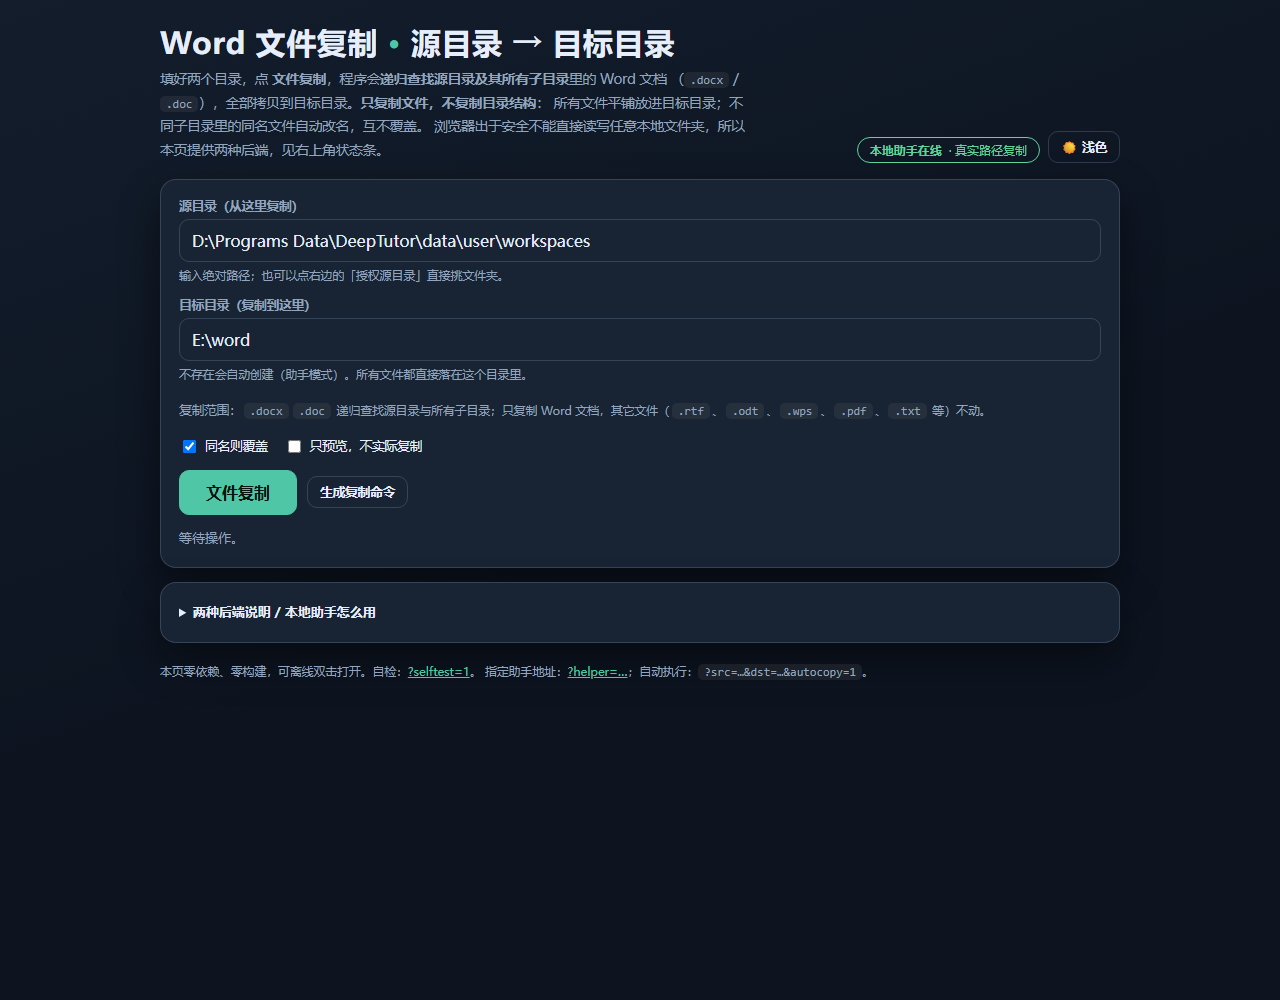
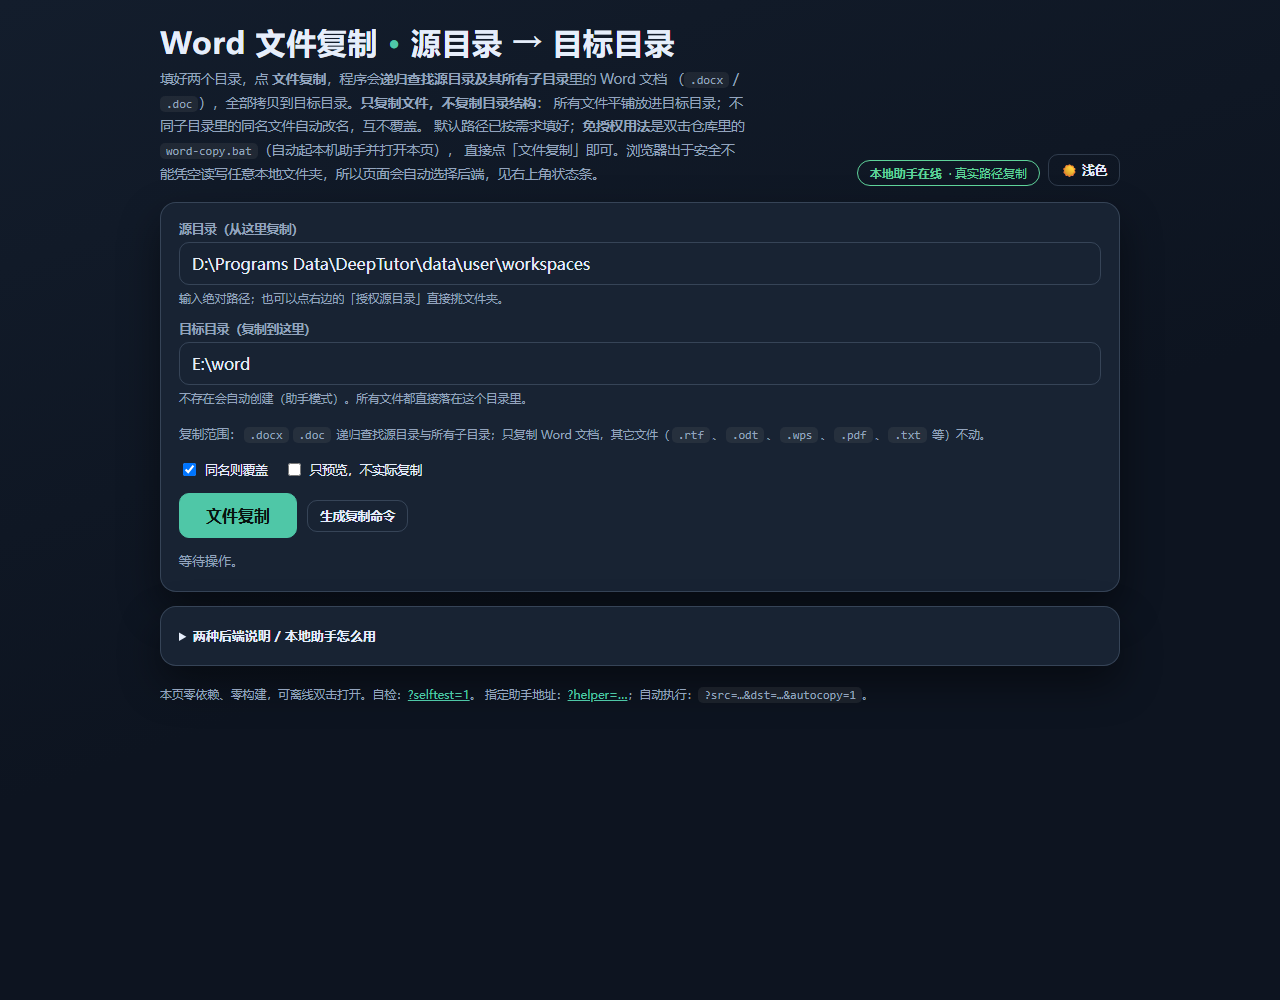
feat(word-copy): 默认目录免授权直接用 —— 双击 word-copy.bat 起助手
反馈里那张截图是「未检测到本地助手，已改用浏览器授权模式：请分别授权源目录和目标目录」。
按「默认文件不用授权」的要求改成：

- 新增 word-copy.bat 免授权启动器：双击即自动起本机助手并打开页面，
  两个默认目录已填好，直接点「文件复制」，不需要授权任何文件夹
  （纯 ASCII，避开 cmd 默认代码页把批处理截断的问题；助手已在跑时不重复启动；
  先等助手绑好端口再叫浏览器，避免页面抢跑探测失败）
- 助手离线时不再只丢一句「请先授权」：页面给出三种免授权办法
  （双击 word-copy.bat 的实际路径、一条启动命令可复制、重新探测助手按钮），
  探测自动重试几次；助手在线时授权按钮直接隐藏
- 页内自检 54 项（新增免授权提示控件、bat 路径推导、顶部免授权说明）
- tools\word-copy-check.ps1 44 项（新增 bat 静态校验与免授权主路径、
  助手离线提示两组无头 Edge 断言）
- tools\word-copy-shots.ps1 本机 git 不可用时保留已提交基线，不重抓
- 新增截图：word-copy-after-no-auth-defaults.png、word-copy-after-helper-offline-hint.png

diff --git a/word-copy.html b/word-copy.html
@@ -70,6 +70,14 @@ details{margin-top:12px;font-size:12.8px;color:var(--muted);line-height:1.75}
 summary{cursor:pointer;color:var(--ink);font-weight:600;font-size:13px}
 code{background:rgba(127,127,127,.14);border-radius:5px;padding:1px 6px;font-family:ui-monospace,Consolas,monospace;font-size:12px}
 .hint{font-size:11.8px;color:var(--muted);margin-top:5px;line-height:1.6}
+.helper-hint{margin-top:12px;border:1px solid var(--warn);border-radius:12px;padding:12px 14px;
+  background:rgba(178,106,0,.06);font-size:12.8px;color:var(--ink);line-height:1.8}
+[data-theme="dark"] .helper-hint{background:rgba(224,178,104,.08)}
+.helper-hint .ht{font-weight:700;color:var(--warn)}
+.helper-hint ol{margin:6px 0 0;padding-left:22px}
+.helper-hint li{margin:4px 0}
+.cmdline{display:flex;gap:8px;align-items:center;flex-wrap:wrap;margin-top:4px}
+.cmdline code{flex:1 1 340px;min-width:0;word-break:break-all}
 footer{margin-top:18px;font-size:11.8px;color:var(--muted);line-height:1.8}
 a{color:var(--accent)}
 #selftest{margin-top:16px;font-size:12.5px;line-height:1.8}
@@ -89,7 +97,8 @@ a{color:var(--accent)}
       <p class="sub">填好两个目录，点 <b>文件复制</b>，程序会<b>递归查找源目录及其所有子目录</b>里的 Word 文档
         （<code>.docx</code> / <code>.doc</code>），全部拷贝到目标目录。<b>只复制文件，不复制目录结构</b>：
         所有文件平铺放进目标目录；不同子目录里的同名文件自动改名，互不覆盖。
-        浏览器出于安全不能直接读写任意本地文件夹，所以本页提供两种后端，见右上角状态条。</p>
+        默认路径已按需求填好；<b>免授权用法</b>是双击仓库里的 <code>word-copy.bat</code>（自动起本机助手并打开本页），
+        直接点「文件复制」即可。浏览器出于安全不能凭空读写任意本地文件夹，所以页面会自动选择后端，见右上角状态条。</p>
     </div>
     <div class="row" style="gap:8px">
       <span class="pill" id="backend"><b>检测中…</b></span>
@@ -130,6 +139,18 @@ a{color:var(--accent)}
 
     <div class="status" id="status">等待操作。</div>
 
+    <div class="helper-hint" id="helperHint" hidden>
+      <div class="ht" id="hintTitle">未检测到本地助手：</div>
+      <ol>
+        <li>双击 <code id="hintBat">word-copy.bat</code>（会自动起助手并打开本页，<b>不需要授权任何文件夹</b>）；</li>
+        <li>或在 PowerShell 里跑一行：
+          <div class="cmdline"><code id="hintCmd">powershell -ExecutionPolicy Bypass -File tools\word-copy-server.ps1</code>
+            <button class="ghost" id="hintCopy">复制</button></div></li>
+        <li>助手起来后点 <button class="ghost" id="hintRetry">重新探测助手</button>，或直接刷新本页。</li>
+      </ol>
+      <div class="hint">助手只监听 127.0.0.1，只做「递归列出 Word 文件」和「平铺复制到目标目录」两件事，不删除任何东西，关掉窗口即停止。</div>
+    </div>
+
     <div id="result"></div>
     <div id="cmd" hidden>
       <label style="margin-top:14px">可直接粘贴到 PowerShell 的复制命令</label>
@@ -140,9 +161,11 @@ a{color:var(--accent)}
 
   <details class="card" style="margin-top:14px">
     <summary>两种后端说明 / 本地助手怎么用</summary>
-    <p><b>① 本地助手（推荐，用真实文件夹路径）</b>：在本仓库目录打开 PowerShell 运行
+    <p><b>① 本地助手（推荐，免授权，用真实文件夹路径）</b>：双击仓库里的 <code>word-copy.bat</code> 最省事 ——
+      它会自动启动助手并打开本页；也可以手动运行
       <code>tools\word-copy-server.ps1</code>，然后访问 <code>http://127.0.0.1:8765/</code>（或直接双击本页，
-      页面会自动探测本机助手）。助手只监听 <code>127.0.0.1</code>，只做「递归列出源目录及子目录里的 Word 文件」和
+      页面会自动探测本机助手）。两种打开方式都不用授权任何文件夹：两个默认目录已经填好，直接点「文件复制」。
+      助手只监听 <code>127.0.0.1</code>，只做「递归列出源目录及子目录里的 Word 文件」和
       「把文件平铺复制到目标目录」两件事：不建子目录、不删除任何东西，关掉窗口即停止。</p>
     <p><b>② 浏览器授权（无需助手）</b>：点「授权源目录 / 授权目标目录」，在系统选择器里授权两个文件夹，
       页面用 File System Access API 逐份复制。限制：必须由你亲手授权，输入框里手打的路径无法被网页读取。</p>
@@ -369,10 +392,35 @@ function detectBackend(tries){
     if (!on && tries > 1) return setTimeout(function(){ detectBackend(tries - 1); }, 400);
     state.mode = on ? 'helper' : (window.showDirectoryPicker ? 'browser' : 'none');
     setBackend();
-    if (state.mode === 'browser') setStatus('未检测到本地助手，已改用浏览器授权模式：请分别授权源目录和目标目录，再点「文件复制」。');
-    else if (state.mode === 'none') setStatus('未检测到本地助手，当前浏览器也不支持目录授权（或以 file:// 打开）。可以点「生成复制命令」，在 PowerShell 里执行同样的操作。');
+    if (state.mode === 'browser') showHelperHint('未检测到本地助手，才让你去授权文件夹。其实不用授权：');
+    else if (state.mode === 'none') showHelperHint('未检测到本地助手，当前浏览器也不支持目录授权。不用授权的用法：');
+    else hideHelperHint();
     if (Q.get('autocopy')) run();
   });
+}
+
+/* 助手不在线时给出「免授权」的启动办法：双击 word-copy.bat，或粘一条命令 */
+function batPath(){
+  /* 从当前页面地址推出发起的仓库目录，拼出 word-copy.bat 的绝对路径 */
+  try {
+    var p = decodeURIComponent(location.pathname);
+    if (/^\/[A-Za-z]:\//.test(p)) p = p.slice(1);          /* file:///D:/... 去掉开头斜杠 */
+    var dir = p.replace(/[\\/][^\\/]*$/, '');               /* 去掉 word-copy.html */
+    var win = /^[A-Za-z]:/.test(dir) || /^\\\\/.test(dir.replace(/\//g, '\\'));
+    return win ? dir.replace(/\//g, '\\') + '\\word-copy.bat' : dir.replace(/\\/g, '/') + '/word-copy.bat';
+  } catch (e) { return 'word-copy.bat'; }
+}
+function showHelperHint(title){
+  var box = $('helperHint');
+  $('hintTitle').textContent = title;
+  $('hintBat').textContent = batPath();
+  box.hidden = false;
+}
+function hideHelperHint(){ $('helperHint').hidden = true; }
+function retryDetect(){
+  setStatus('正在重新探测本机助手…');
+  state.mode = 'detect'; setBackend();
+  detectBackend(5);
 }
 
 /* ---------- 浏览器授权模式（递归查找 Word 文件，平铺复制） ---------- */
@@ -470,10 +518,14 @@ function run(){
     setStatus('助手模式需要绝对路径，例如 D:\\资料\\合同 或 /home/me/docs。', true); return;
   }
   if (state.mode === 'browser' && (!state.srcHandle || !state.dstHandle)){
-    setStatus('浏览器授权模式需要先分别授权源目录和目标目录。', true); return;
+    setStatus('输入框里的路径浏览器读不到，所以这一版才要授权。想直接用默认路径、不授权，就启动本机助手（见下方提示）。', true);
+    showHelperHint('要用默认路径直接复制、跳过授权，请先启动本机助手：');
+    return;
   }
   if (state.mode === 'none' || state.mode === 'detect'){
-    setStatus('当前环境无法直接复制文件。请运行 tools\\word-copy-server.ps1，或点「生成复制命令」。', true); return;
+    setStatus('本机助手没在运行，浏览器也读不到手打的路径。启动助手即可免授权用默认路径复制：', true);
+    showHelperHint('未检测到本地助手，用下面任一方式启动后即可免授权复制：');
+    return;
   }
   state.busy = true; $('run').disabled = true;
   setStatus(o.preview ? '正在预览…' : '正在复制…');
@@ -510,6 +562,14 @@ function pickDir(which){
 }
 $('pickSrc').addEventListener('click', function(){ pickDir('src'); });
 $('pickDst').addEventListener('click', function(){ pickDir('dst'); });
+$('hintRetry').addEventListener('click', retryDetect);
+$('hintCopy').addEventListener('click', function(){
+  var txt = 'powershell -ExecutionPolicy Bypass -File "' + batPath().replace(/word-copy\.bat$/, 'tools\\word-copy-server.ps1') + '"';
+  if (navigator.clipboard && navigator.clipboard.writeText){
+    navigator.clipboard.writeText(txt).then(function(){ setStatus('助手启动命令已复制到剪贴板，粘到 PowerShell 回车即可。'); },
+      function(){ $('hintCmd').textContent = txt; setStatus('自动复制被拒绝，请手动选中上面那行命令。'); });
+  } else { $('hintCmd').textContent = txt; setStatus('请手动选中上面那行命令复制。'); }
+});
 $('cmdBtn').addEventListener('click', function(){
   var o = currentOpts();
   var v = validate(o.src, o.dst, EXTS);
@@ -617,6 +677,10 @@ function selftest(){
   T('Unix 命令递归 find + cp 平铺', /find .* -type f/.test(buildCommand('/a', '/b', { exts: EXTS, unix: true })) &&
     buildCommand('/a', '/b', { exts: EXTS, unix: true }).indexOf('-maxdepth') < 0);
   T('界面控件齐备', ['src', 'dst', 'run', 'overwrite', 'preview', 'result', 'status', 'exts'].every(function(id){ return !!$(id); }));
+  T('免授权提示控件齐备', ['helperHint', 'hintTitle', 'hintBat', 'hintCmd', 'hintCopy', 'hintRetry'].every(function(id){ return !!$(id); }));
+  T('bat 路径可推导', typeof batPath === 'function' && /word-copy\.bat$/.test(batPath()));
+  T('提示默认隐藏', $('helperHint').hidden === true);
+  T('助手探测会重试', detectBackend.length === 1);
   T('按钮文案是文件复制', $('run').textContent.trim() === '文件复制');
   T('两个目录输入框存在', $('src').type === 'text' && $('dst').type === 'text');
   T('源目录默认值正确', $('src').value === DEFAULT_SRC && DEFAULT_SRC === 'D:\\Programs Data\\DeepTutor\\data\\user\\workspaces');
@@ -624,6 +688,7 @@ function selftest(){
   T('默认值都是绝对路径', isAbsolute(DEFAULT_SRC) && isAbsolute(DEFAULT_DST));
   T('已无「含子目录」勾选框', !$('recursive'));
   T('范围文字写明递归与不复制目录', $('exts').textContent.indexOf('子目录') >= 0);
+  T('顶部说明给出免授权用法', document.querySelector('.sub').textContent.indexOf('word-copy.bat') >= 0);
   T('预览用词与实复制不同', PREVIEW_LABEL.copy === '待复制' && ACTION_LABEL.copy === '已复制' &&
     PREVIEW_LABEL.overwrite === '待覆盖' && PREVIEW_LABEL['skip-exist'].indexOf('将') === 0);
   T('助手地址去掉尾部斜杠', HELPER.slice(-1) !== '/');

diff --git a/README.md b/README.md
@@ -6,11 +6,18 @@
 
 ## 怎么用
 
+**免授权用法**：双击仓库里的 `word-copy.bat` —— 它自动启动本机助手并打开页面，
+两个默认目录已经填好，直接点 **文件复制** 就行，不需要授权任何文件夹。
+
 | 步骤 | 说明 |
 | --- | --- |
-| 1 | 打开页面。两个框已按需求填好默认值：源目录 `D:\Programs Data\DeepTutor\data\user\workspaces`、目标目录 `E:\word` |
+| 1 | 双击 `word-copy.bat`（或先跑助手、再打开 `word-copy.html`）。页面打开时两个框已按需求填好默认值：源目录 `D:\Programs Data\DeepTutor\data\user\workspaces`、目标目录 `E:\word` |
 | 2 | 点 **文件复制** |
 | 3 | 看结果表：每个文件从哪儿来、在目标目录里叫什么、是复制 / 覆盖 / 跳过 / 失败 |
+
+助手没在跑的时候，页面不会只丢一句「请先授权文件夹」，而是直接给出三种免授权启动办法：
+双击 `word-copy.bat`（提示里带出它的实际路径）、粘一条启动助手的 PowerShell 命令、
+点「重新探测助手」。探测还会自动重试几次，避免助手刚起来时抢跑。
 
 - **只复制 Word 文档**：`.rtf`、`.odt`、`.wps`、`.pdf`、`.txt`、图片等一律不动；Word 打开时产生的
   `~$` 临时锁文件和隐藏文件也自动排除。
@@ -25,7 +32,7 @@
 
 | 后端 | 怎么开 | 能力 |
 | --- | --- | --- |
-| ① 本地助手（推荐） | `powershell -ExecutionPolicy Bypass -File tools\word-copy-server.ps1` 后访问 `http://127.0.0.1:8765/` | 认输入框里的真实路径，递归 + 平铺复制；只监听 `127.0.0.1`，只做「列 Word 文件」和「复制文件」两件事，不删除任何东西，关窗口即停 |
+| ① 本地助手（推荐，**免授权**） | 双击 `word-copy.bat`（自动起助手 + 打开页面），或 `powershell -ExecutionPolicy Bypass -File tools\word-copy-server.ps1` 后访问 `http://127.0.0.1:8765/` | 认输入框里的真实路径，递归 + 平铺复制；只监听 `127.0.0.1`，只做「列 Word 文件」和「复制文件」两件事，不删除任何东西，关窗口即停 |
 | ② 浏览器授权 | 点「授权源目录 / 授权目标目录」亲手挑两个文件夹（Chrome / Edge 的 File System Access API） | 无需助手，但必须由用户授权，手打路径读不到 |
 | ③ 生成复制命令 | 点「生成复制命令」，粘到 PowerShell 执行 | 兜底：同样递归、同样只拷 Word、同样平铺；区别是不同子目录里的同名文件会互相覆盖（一条命令没法改名），要保留两份请用助手或授权模式 |
 
@@ -46,19 +53,22 @@
 | `?overwrite=0` | 取消「同名则覆盖」 |
 | `?cmd=1` | 打开时直接展开生成的复制命令 |
 | `?theme=dark` | 深色启动 |
-| `?selftest=1` | 页底列出 49 项自检结果 |
+| `?selftest=1` | 页底列出 54 项自检结果 |
 
 页内暴露 `window.wordcopy`（`state` / `core` / `setPaths()` / `run()` / `ping()` / `selftest()`）供检查。
 
 ## 验证
 
-- `powershell -ExecutionPolicy Bypass -File tools\word-copy-check.ps1`：**32 项断言全部通过**
+- `powershell -ExecutionPolicy Bypass -File tools\word-copy-check.ps1`：**44 项断言全部通过**
   （递归只取 `.docx`/`.doc`、排除 `~$` 与隐藏文件、平铺且目标不产生子目录、同名不同目录自动改名不覆盖、
   重复拷贝跳过、内容有差才覆盖、不勾选覆盖时一律跳过、预览不落盘不建目录、目标缺失时自动创建、
   四类入参校验报错，以及助手 HTTP 的 `/api/status` / `/api/copy` / 400 错误通道；
-  最后用无头 Edge 跑页内自检与「浏览器 → 助手 → 磁盘」全链路，确认状态报完成且磁盘上确有 4 个平铺文件）。
-- `word-copy.html?selftest=1`：**49 项页内断言全部通过**（含内核 14 个函数齐备、递归清单与平铺改名规则、
-  默认目录值、预览用词与实复制用词区分、控件齐备与文案）。
+  外加 `word-copy.bat` 免授权启动器的静态校验（纯 ASCII、带 `-Port`、助手已在跑时不重复启动、先绑端口再开浏览器）；
+  最后用无头 Edge 跑页内自检与「浏览器 → 助手 → 磁盘」全链路，确认状态报完成且磁盘上确有 4 个平铺文件，
+  并单独验证**免授权主路径**：直接 `file://` 双击页面时助手在线、用两个默认目录给出计划、授权按钮隐藏、
+  不出现「请分别授权」，以及助手离线时页面给出免授权启动办法）。
+- `word-copy.html?selftest=1`：**54 项页内断言全部通过**（含内核 15 个函数齐备、递归清单与平铺改名规则、
+  默认目录值、预览用词与实复制用词区分、免授权提示控件与 `word-copy.bat` 路径推导、控件齐备与文案）。
 - 助手 `tools\word-copy-server.ps1` 与检查脚本都是纯 PowerShell，不需要 Node、不需要安装任何东西。
 
 ## 截图
@@ -67,7 +77,10 @@
 （`main` 上没有这个页面，`git cat-file -e origin/main:word-copy.html` 报
 *exists on disk, but not in 'origin/main'*），`word-copy-after-*.png` 是本分支的运行画面：
 默认目录与范围说明、深色配色、页内自检全绿、504×900 窄屏、助手在线的预览画面、真复制完成画面
-（4 个文件平铺进目标目录，其中两个同名 `deep.docx` 自动改名）、取消覆盖时的跳过画面、生成的复制命令。
+（4 个文件平铺进目标目录，其中两个同名 `deep.docx` 自动改名）、取消覆盖时的跳过画面、生成的复制命令，
+以及**免授权**两张：`word-copy-after-no-auth-defaults.png`（直接 `file://` 双击页面，助手在线、
+两个默认目录已填好、不要求授权）与 `word-copy-after-helper-offline-hint.png`（助手离线时页面给出的
+免授权启动办法：双击 `word-copy.bat` / 一条 PowerShell 命令 / 重新探测助手）。
 预览/真复制两张取的是仓库内的临时目录（`.verify/shots/src → dst`），不读写真实的 `E:\word`。
 全部可用 `powershell -ExecutionPolicy Bypass -File tools\word-copy-shots.ps1` 复现。
 窄屏截图取 504px：本机无头 Edge 会把 CSS 视口下限钳制到约 504px，因此未标注为 390px。
